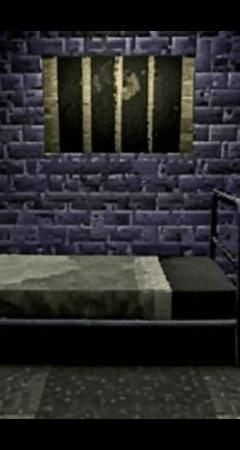
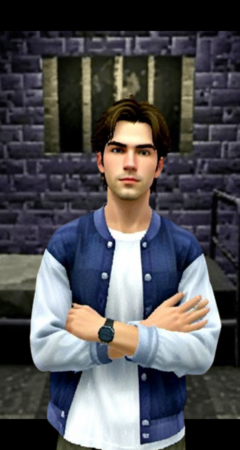
added main character

diff --git a/menualt.py b/menualt.py
@@ -147,7 +147,7 @@ def credits():
 
 def main_menu():
     while True:
-        BG = pygame.image.load("assets/background2.png")
+        BG = pygame.image.load("assets/backgroundmc2.png")
         SCALED_BG = pygame.transform.scale(BG, (1280,720))
 
         SCREEN.blit(SCALED_BG, (0, 0))  #background

diff --git a/menu.py b/menu.py
@@ -147,7 +147,7 @@ def credits():
 
 def main_menu():
     while True:
-        BG = pygame.image.load("assets/background.png")
+        BG = pygame.image.load("assets/backgroundmc.png")
         SCALED_BG = pygame.transform.scale(BG, (1280,720))
 
         SCREEN.blit(SCALED_BG, (0, 0))  #background
